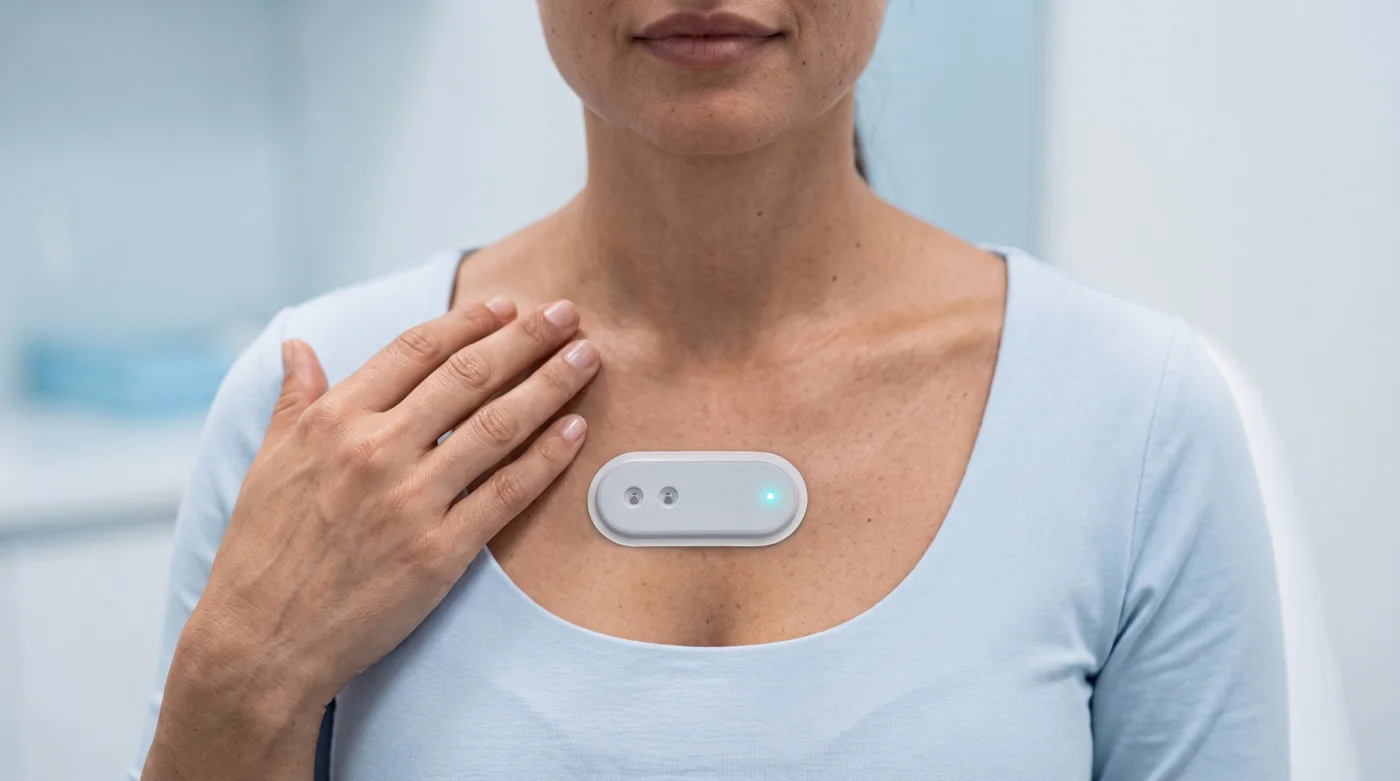
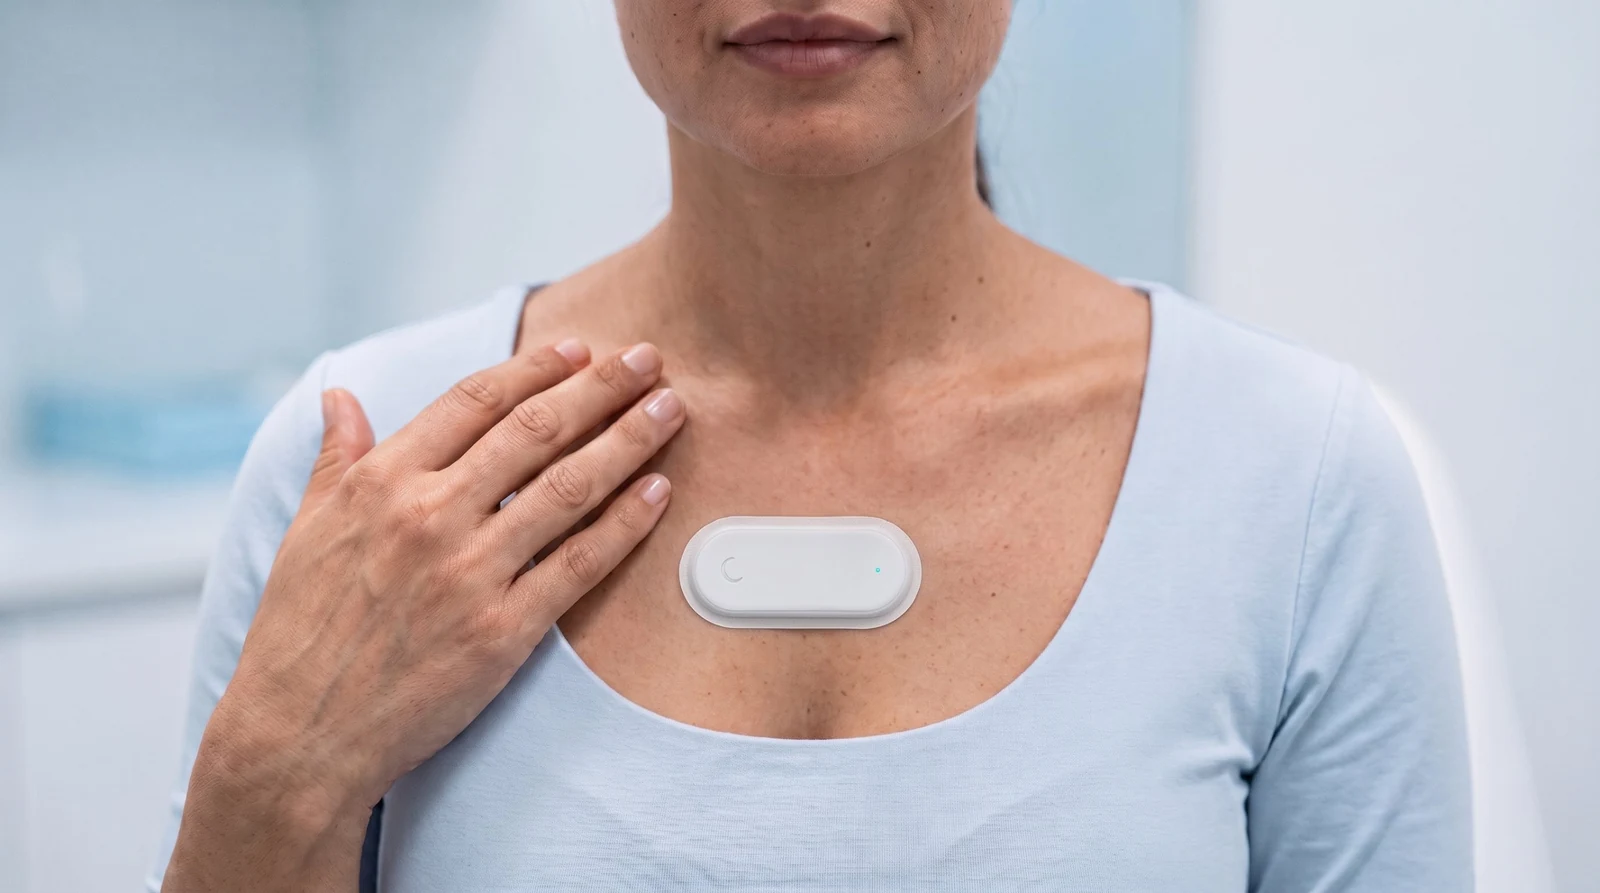
feat: imagens finais do patch e caixa sem fundo na abertura
Claude-Session: https://claude.ai/code/session_016CfPQeZMc2jcxe4dWZ57EH

Changed region(s): [[0.3993, 0.5839, 0.5836, 0.7068]]

diff --git a/src/components/Landing.tsx b/src/components/Landing.tsx
@@ -8,7 +8,7 @@ import { REFERENCES, SCIENCE_CARDS } from "@/data/science";
 import LanguageSwitcher from "./LanguageSwitcher";
 import ThemeToggle from "./ThemeToggle";
 import Reveal from "./Reveal";
-import { Icon, Moon, PatchBox, Phone, Photo } from "./Art";
+import { Icon, Moon, Phone, Photo } from "./Art";
 
 const btn =
   "inline-flex items-center justify-center rounded-full px-7 py-3.5 text-base font-semibold transition hover:opacity-90 active:scale-[.98]";
@@ -234,7 +234,14 @@ export default function Landing() {
           <Reveal delay={320}>
             <div className="mx-auto mt-12 grid max-w-[1040px] items-end gap-8 px-6 pb-6 md:grid-cols-[1fr_minmax(0,440px)_1fr]">
               <div className="order-2 md:order-1">
-                <PatchBox className="mx-auto w-[170px] drop-shadow-[0_18px_20px_rgba(63,57,155,.28)] sm:w-[190px]" />
+                <Image
+                  src="/box-open.webp"
+                  alt={t("hero.box")}
+                  width={1200}
+                  height={1177}
+                  sizes="240px"
+                  className="mx-auto h-auto w-[200px] drop-shadow-[0_24px_28px_rgba(31,27,99,.45)] sm:w-[240px]"
+                />
                 <p className="mx-auto mt-3 max-w-[16em] text-[13px] font-medium leading-snug">
                   {t("hero.box")}
                 </p>
@@ -574,7 +581,7 @@ export default function Landing() {
                       <Photo
                         name={n}
                         alt={t(`photo.${n}`)}
-                        pos={n === "back" ? "50% 35%" : "50% 55%"}
+                        pos={n === "back" ? "50% 50%" : "50% 60%"}
                         className="aspect-[4/3] w-full rounded-[28px]"
                       />
                       <p className="mt-3 text-[15px] font-medium">
